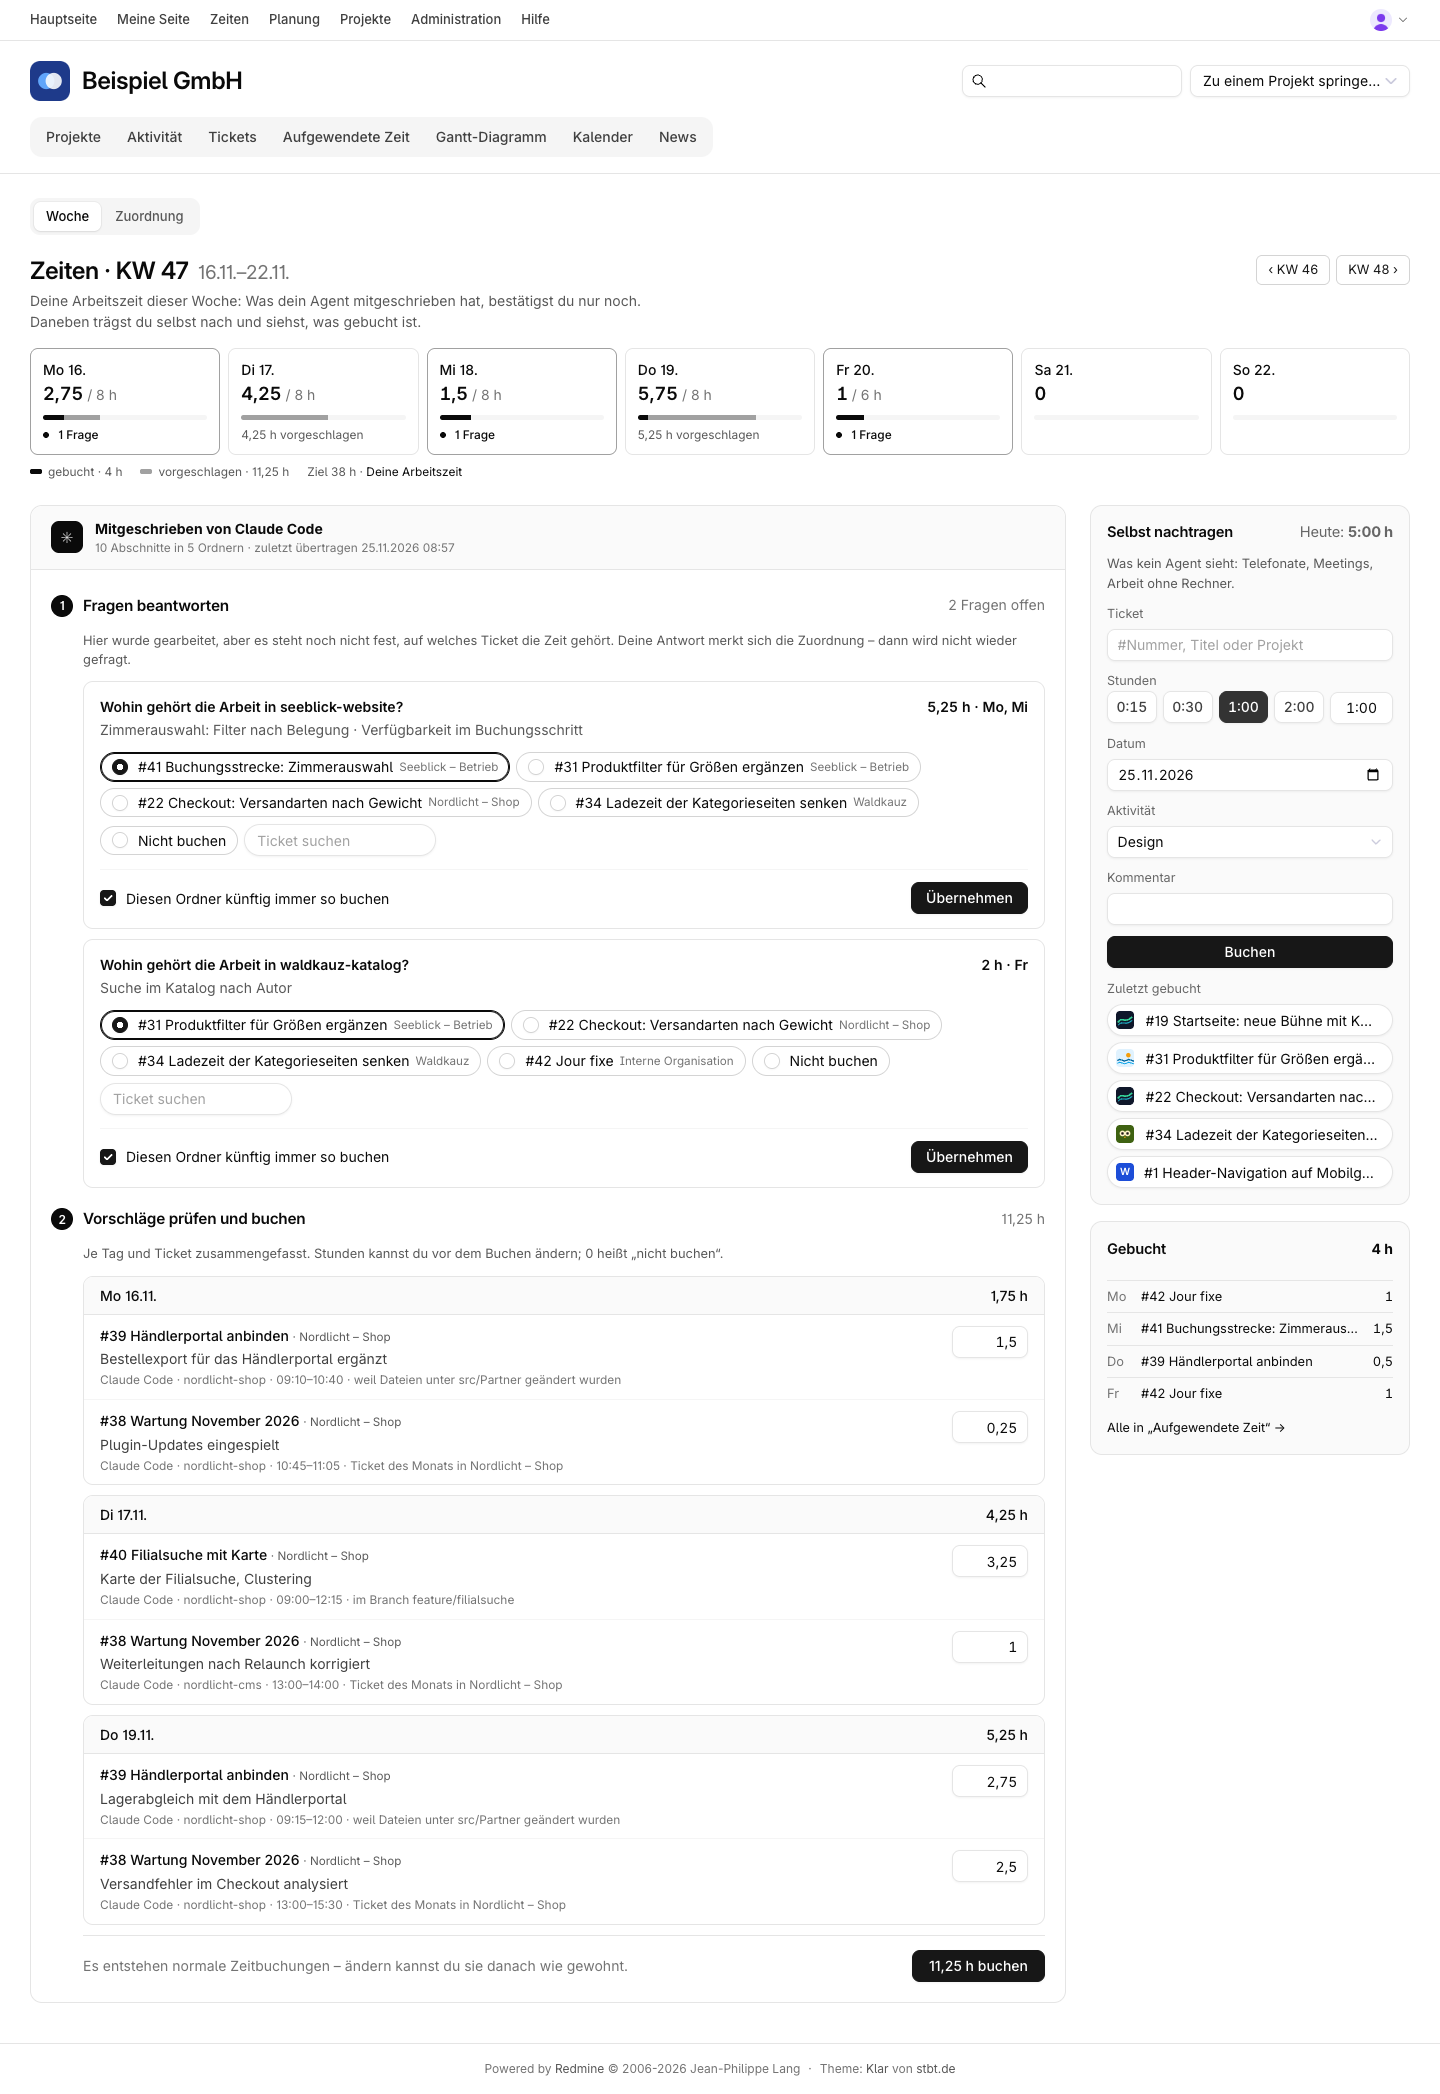
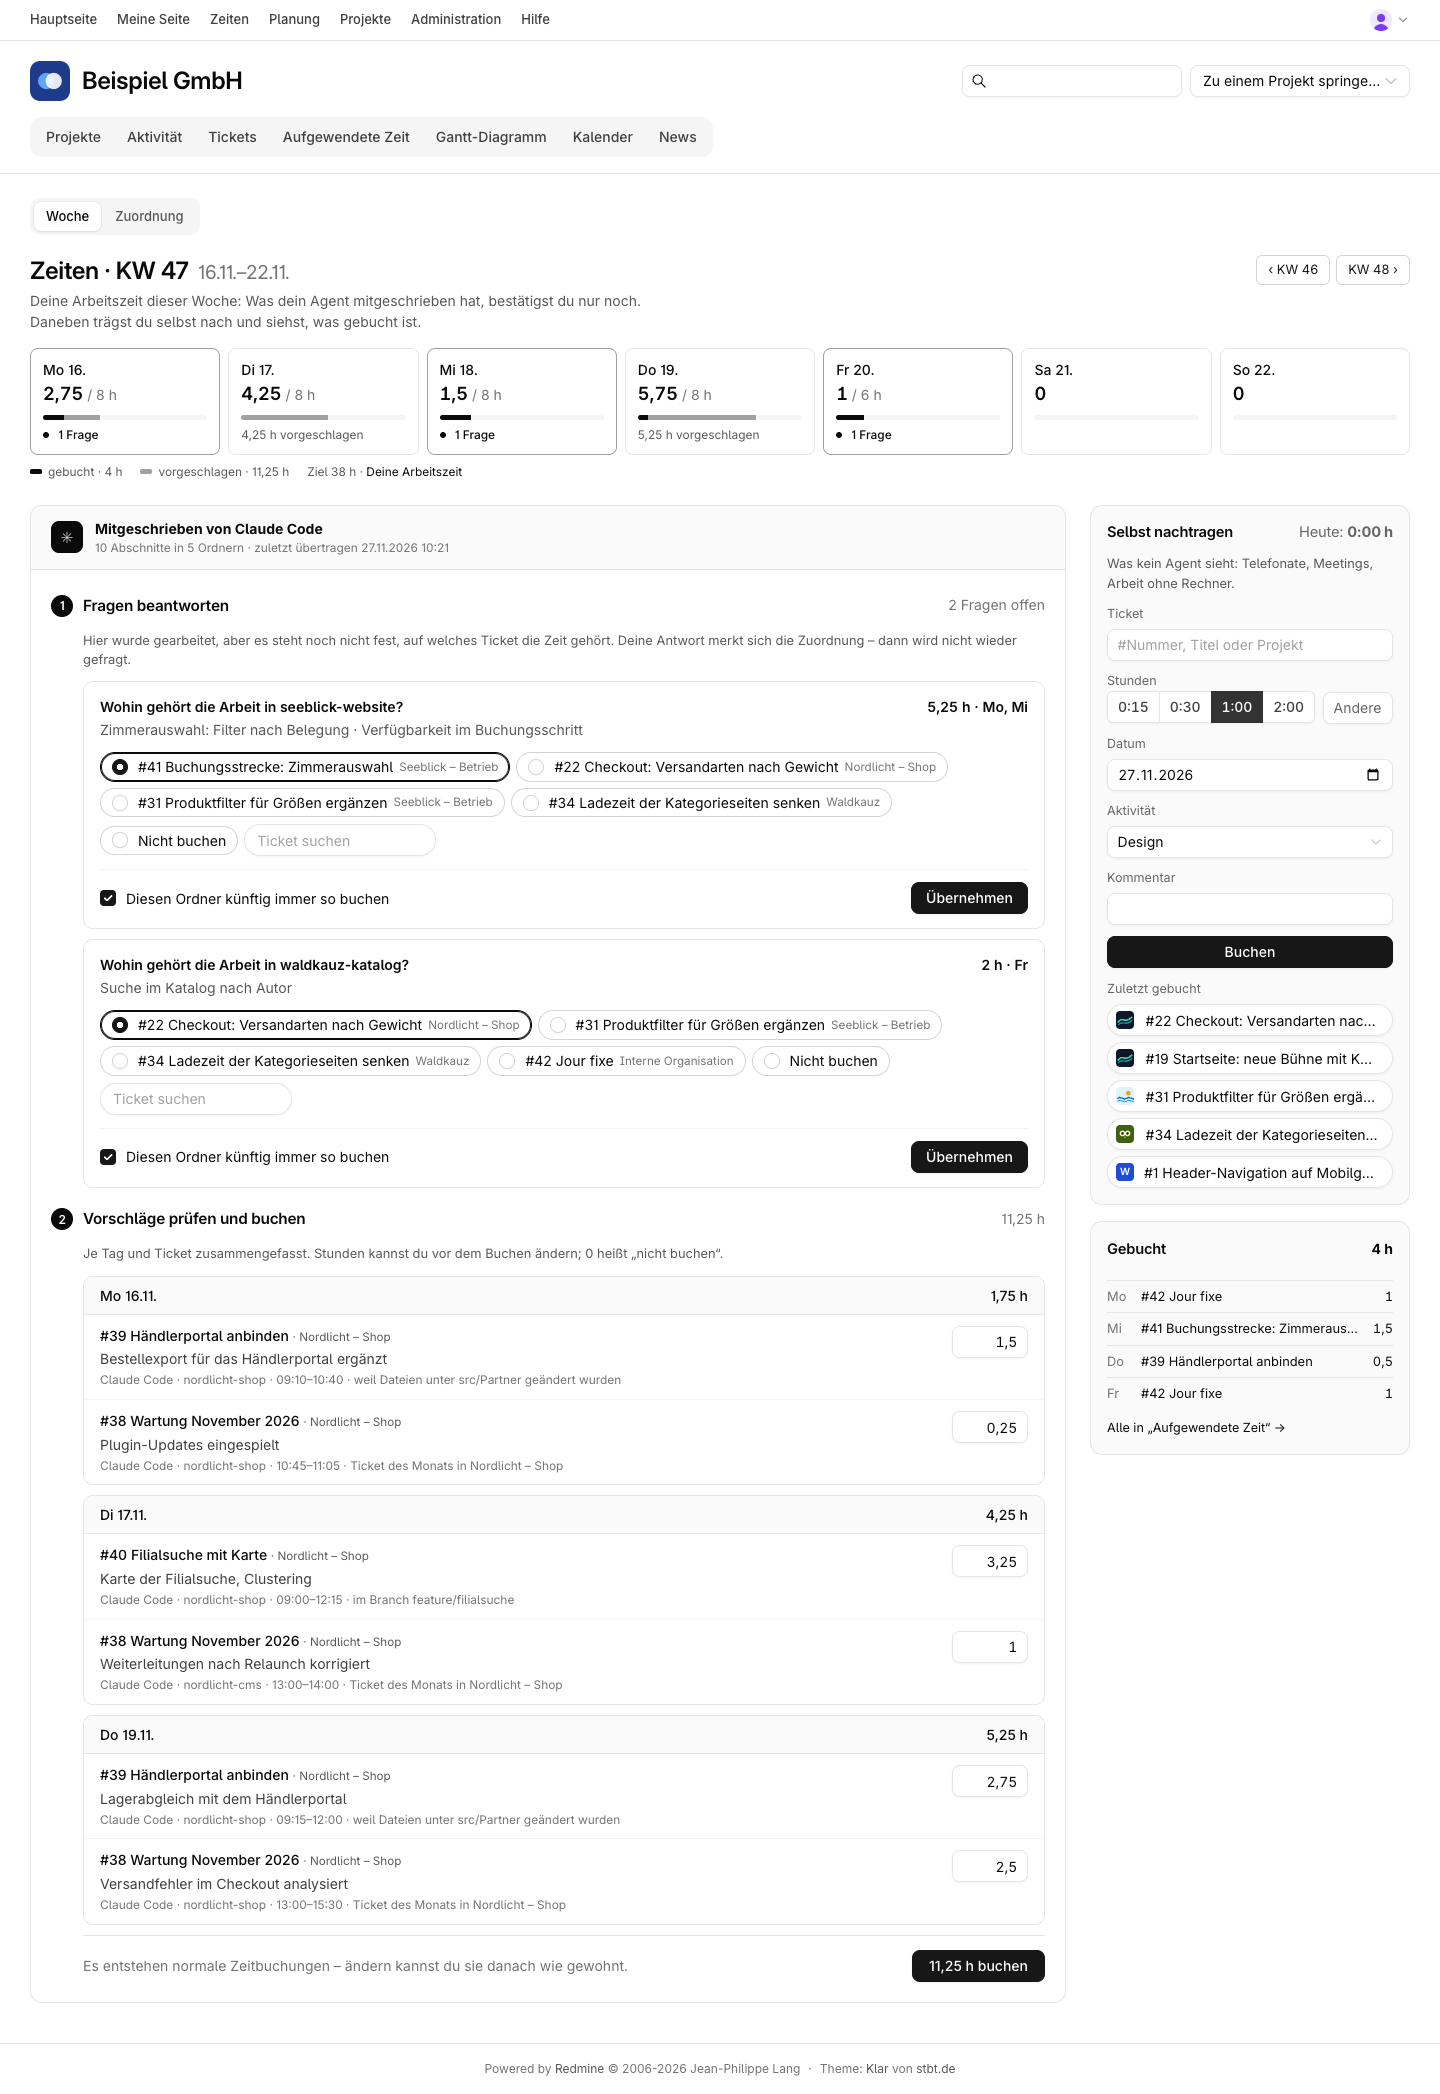
Release 0.2.4

diff --git a/assets/javascripts/time_autopilot_blocks.js b/assets/javascripts/time_autopilot_blocks.js
@@ -36,6 +36,7 @@
       clear: root.querySelector('.ta-issue-clear'),
       options: root.querySelector('.ta-issue-options'),
       hours: root.querySelector('.ta-hours'),
+      customHours: root.querySelector('.ta-hours-custom'),
       activity: root.querySelector('.ta-activity'),
       comments: root.querySelector('input[name="comments"]'),
       status: root.querySelector('.ta-quick-time-status')
@@ -201,11 +202,21 @@
 
   // --- Dauer -----------------------------------------------------------------
 
+  // Gebucht wird das versteckte Feld: die eigene Dauer, sonst die gewählte Vorgabe.
+  // Eine Vorgabe ist nur markiert, solange das Feld für die eigene Dauer leer ist.
   function markDuration(root) {
     var p = parts(root);
+    var custom = p.customHours.value.trim();
+    p.hours.value = custom || root.dataset.taPreset || p.hours.defaultValue;
     root.querySelectorAll('.ta-duration-choice').forEach(function (button) {
-      button.setAttribute('aria-pressed', button.dataset.hours === p.hours.value.trim() ? 'true' : 'false');
+      button.setAttribute('aria-pressed', !custom && button.dataset.hours === p.hours.value ? 'true' : 'false');
     });
+  }
+
+  function choosePreset(root, hours) {
+    root.dataset.taPreset = hours;
+    parts(root).customHours.value = '';
+    markDuration(root);
   }
 
   // --- Meldungen und Buchen --------------------------------------------------
@@ -217,13 +228,28 @@
     status.className = 'ta-quick-time-status';
   }
 
-  function showStatus(root, kind, text, action) {
+  // Meldung als Text; steht die Ticketnummer (issue.label) darin, wird sie zum Link
+  function messageNode(text, issue) {
+    var message = document.createElement('span');
+    var at = issue && issue.label ? text.indexOf(issue.label) : -1;
+    if (at < 0) {
+      message.textContent = text;
+      return message;
+    }
+    var link = document.createElement('a');
+    link.href = issue.url;
+    link.textContent = issue.label;
+    message.appendChild(document.createTextNode(text.slice(0, at)));
+    message.appendChild(link);
+    message.appendChild(document.createTextNode(text.slice(at + issue.label.length)));
+    return message;
+  }
+
+  function showStatus(root, kind, text, action, issue) {
     var status = parts(root).status;
     status.innerHTML = '';
     status.className = 'ta-quick-time-status ta-status-' + kind;
-    var message = document.createElement('span');
-    message.textContent = text;
-    status.appendChild(message);
+    status.appendChild(messageNode(text, issue));
     if (action) {
       status.appendChild(action);
     }
@@ -273,7 +299,8 @@
       .then(function (result) {
         if (result.ok) {
           updateToday(root, result.body.today);
-          showStatus(root, 'success', result.body.message, result.body.undo ? undoButton(root, result.body.id) : null);
+          showStatus(root, 'success', result.body.message,
+                     result.body.undo ? undoButton(root, result.body.id) : null, result.body.issue);
           clearIssue(root);
           p.search.value = '';
           p.comments.value = '';
@@ -305,7 +332,7 @@
     if (event.target.matches('.ta-issue-search')) {
       clearIssue(root);
       search(root);
-    } else if (event.target.matches('.ta-hours')) {
+    } else if (event.target.matches('.ta-hours-custom')) {
       markDuration(root);
     }
   });
@@ -355,8 +382,7 @@
     } else if (recent) {
       selectIssue(root, recent.dataset.issueId, recent.dataset.label);
     } else if (duration) {
-      parts(root).hours.value = duration.dataset.hours;
-      markDuration(root);
+      choosePreset(root, duration.dataset.hours);
     } else if (event.target.closest('.ta-issue-clear')) {
       var p = parts(root);
       clearIssue(root);

diff --git a/assets/stylesheets/time_autopilot_blocks.css b/assets/stylesheets/time_autopilot_blocks.css
@@ -426,13 +426,41 @@ h3:has(> .ta-mw-total, > .ta-today) {
 .ta-duration-choices {
   display: flex;
   flex-wrap: wrap;
-  gap: 6px;
+  gap: 10px;
+}
+
+/* Vorgaben als ein zusammenhängender Schalter – so hebt sich das Feld für die
+   eigene Dauer daneben als Eingabe ab */
+.ta-duration-presets {
+  display: flex;
 }
 
 .ta-duration-choice {
+  position: relative;
   min-width: 48px;
+  margin: 0;
   font-variant-numeric: tabular-nums;
   cursor: pointer;
+  border-radius: 0;
+}
+
+.ta-duration-choice + .ta-duration-choice {
+  margin-left: -1px;
+}
+
+.ta-duration-choice:first-child {
+  border-top-left-radius: 6px;
+  border-bottom-left-radius: 6px;
+}
+
+.ta-duration-choice:last-child {
+  border-top-right-radius: 6px;
+  border-bottom-right-radius: 6px;
+}
+
+/* über den Nachbarn, damit deren Rahmen die Markierung nicht anschneidet */
+.ta-duration-choice[aria-pressed="true"], .ta-duration-choice:focus-visible {
+  z-index: 1;
 }
 
 .ta-duration-choice[aria-pressed="true"] {
@@ -441,10 +469,13 @@ h3:has(> .ta-mw-total, > .ta-today) {
   border-color: var(--ta-accent);
 }
 
-.ta-hours {
-  width: 4.5em;
-  text-align: center;
+.ta-hours-custom {
+  width: 6em;
   font-variant-numeric: tabular-nums;
+}
+
+.ta-hours-custom::placeholder {
+  color: var(--ta-muted);
 }
 
 .ta-quick-time-status {
@@ -486,6 +517,7 @@ h3:has(> .ta-mw-total, > .ta-today) {
 .ta-quick-time-status a {
   color: inherit;
   font-weight: 600;
+  text-decoration: underline;
 }
 
 .ta-recent {
@@ -537,11 +569,29 @@ h3:has(> .ta-mw-total, > .ta-today) {
   }
 
   .ta-duration-choices {
-    display: grid;
-    grid-template-columns: repeat(4, minmax(0, 1fr)) 5em;
+    flex-wrap: nowrap;
   }
 
-  .ta-duration-choice, .ta-hours {
+  .ta-duration-presets {
+    flex: 1;
+    min-width: 0;
+  }
+
+  /* schmale Innenabstände: die Zeile darf das Formular nicht breiter machen */
+  .ta-duration-choice {
+    flex: 1;
+    min-width: 0;
+    padding-right: 4px;
+    padding-left: 4px;
+  }
+
+  .ta-hours-custom {
+    flex: 0 0 5em;
+    width: 5em;
+    min-width: 0;
+  }
+
+  .ta-duration-choice, .ta-hours-custom {
     min-height: 44px;
   }
 

diff --git a/assets/stylesheets/time_autopilot.css b/assets/stylesheets/time_autopilot.css
@@ -118,7 +118,11 @@ input[type=search].ta-search, input[type=search].ta-issue-search { -webkit-appea
 .ta-side-entry .ta-quick-time-intro { color: #585858; font-size: 0.92em; margin: 0 0 12px; }
 .ta-side .ta-quick-time-form { flex-direction: column; align-items: stretch; }
 .ta-side .ta-field { flex: none; }
-.ta-side .ta-duration-choices { display: grid; grid-template-columns: repeat(4, minmax(0, 1fr)) 4.5em; }
+/* schmale Spalte: Vorgaben teilen sich die Breite, daneben das Feld für die eigene Dauer */
+.ta-side .ta-duration-choices { flex-wrap: nowrap; gap: 8px; }
+.ta-side .ta-duration-presets { flex: 1; min-width: 0; }
+.ta-side .ta-duration-choice { flex: 1; min-width: 0; padding-right: 4px; padding-left: 4px; }
+.ta-side .ta-hours-custom { flex: 0 0 5em; width: 5em; min-width: 0; }
 .ta-side .ta-submit input { width: 100%; }
 .ta-side .ta-recent { flex-direction: column; align-items: stretch; }
 .ta-side .ta-recent-issue { box-sizing: border-box; width: 100%; max-width: 100%; min-width: 0; justify-content: flex-start; }

diff --git a/test/integration/widgets_test.rb b/test/integration/widgets_test.rb
@@ -37,6 +37,17 @@ class WidgetsTest < Redmine::IntegrationTest
     assert_select '#block-quick_time_entry .ta-submit input[data-disable-with]', false
   end
 
+  # Vorgaben und eigene Dauer: gebucht wird das versteckte Feld, das Eingabefeld
+  # daneben ist leer und trägt keinen Namen (sonst kämen zwei Werte für hours an)
+  def test_eigene_dauer_ist_ein_eigenes_leeres_feld
+    my_page_blocks(@user, :quick_time_entry)
+    get '/my/page'
+    assert_select '#block-quick_time_entry input[type=hidden][name=hours].ta-hours'
+    assert_select '#block-quick_time_entry .ta-duration-presets .ta-duration-choice', 4
+    assert_select '#block-quick_time_entry .ta-duration-choice[aria-pressed=true]', 1
+    assert_select '#block-quick_time_entry input.ta-hours-custom[placeholder]:not([name]):not([value])'
+  end
+
   def test_wochenziel_einstellen
     my_page_blocks(@user, :my_week)
     post '/my/page', params: { settings: { my_week: { target_hours: '32' } } }, xhr: true
@@ -151,6 +162,17 @@ class WidgetsTest < Redmine::IntegrationTest
     assert_in_delta 1.5, entry.hours
     assert_equal [issue, @user, 'Schnell gebucht'], [entry.issue, entry.user, entry.comments]
     assert response.parsed_body['undo']
+  end
+
+  # Die Meldung nennt das Ticket; Nummer und Adresse kommen mit, damit das
+  # Skript die Nummer verlinken kann
+  def test_buchen_liefert_ticketnummer_und_adresse
+    issue = create_assigned_issue(@user)
+    post '/time_autopilot/entries', params: { issue_id: issue.id, hours: '1', spent_on: @user.today.to_s }
+    assert_response :success
+    body = response.parsed_body
+    assert_equal({ 'label' => "##{issue.id}", 'url' => "/issues/#{issue.id}" }, body['issue'])
+    assert_includes body['message'], "##{issue.id}"
   end
 
   def test_buchen_ohne_recht_verboten

diff --git a/app/controllers/time_autopilot_entries_controller.rb b/app/controllers/time_autopilot_entries_controller.rb
@@ -32,6 +32,8 @@ class TimeAutopilotEntriesController < ApplicationController
       render json: {
         id: entry.id,
         message: l(:notice_time_autopilot_time_logged, hours: hours_text(entry.hours), issue: "##{@issue.id} #{@issue.subject}"),
+        # Das Skript verlinkt die Nummer in der Meldung auf das Ticket
+        issue: { label: "##{@issue.id}", url: issue_path(@issue) },
         today: hours_text(quick_time_entry.today_hours),
         undo: entry.editable_by?(User.current)
       }

diff --git a/init.rb b/init.rb
@@ -19,7 +19,7 @@ Redmine::Plugin.register :redmine_time_autopilot do
   author 'stbt.de'
   author_url 'https://stbt.de/'
   description 'Time tracking for Redmine: proposals from recorded work (e.g. AI agents) with rules per folder, file, branch or word, monthly issues, quick time entry and weekly hours widgets, working hours per weekday.'
-  version '0.2.3'
+  version '0.2.4'
   url 'https://github.com/stbt-de/redmine-time-autopilot'
   requires_redmine version_or_higher: '6.0.0'
 

diff --git a/docs/redmine-org.md b/docs/redmine-org.md
@@ -45,7 +45,7 @@ Restart Redmine. Coming from Dashboard Blocks 1.3: install Time Autopilot, then 
 
 ## Plugin version
 
-0.2.3
+0.2.4
 
 ## Redmine compatibility
 
